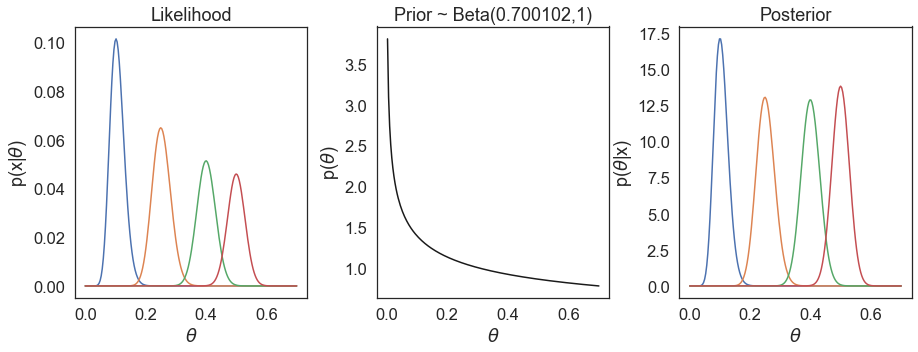
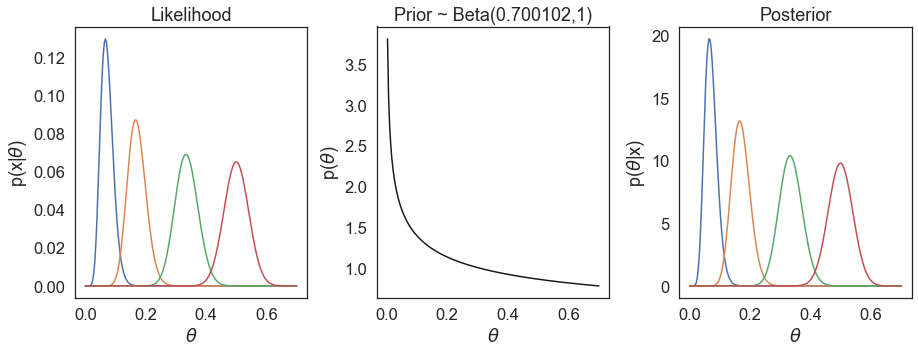
change to fixed total cases

diff --git a/_posts/2021-01-26-vaccine_efficacy_bayesian.md b/_posts/2021-01-26-vaccine_efficacy_bayesian.md
@@ -128,15 +128,15 @@ Now to calculate the posterior $$p(\theta<0.4117647 \vert x)$$, this is simply t
 
 The 95% credible interval can be obtained via calculating the posterior probabilities at the 2.5th and 97.5th percentile. The lower/upper bound $$\theta$$ can then be used to derive the upper/lower bound VE values (with surveillance time adjustment using $$r$$).
 
-Before moving to the next section, we will just explore the effects of different $$\theta$$ values on the likelihood and posterior, using the prior we've discussed. As an example, we will set 150 cases in the placebo group, and vary the number of observed cases in the vaccinated group.
+Before moving to the next section, we will just explore the effects of different $$\theta$$ values on the likelihood and posterior, using the prior we've discussed. As an example, we will set 150 total cases, and vary the number of observed cases in the vaccinated group.
 
 ```python
 import numpy as np
 import scipy.stats as st
 import matplotlib.pyplot as plt
 
-c_vs = [17, 50, 100, 150] # no. cases in vaccinated group
-c_ps = [150, 150, 150, 150] # no. cases in placebo group
+c_vs = np.array([10, 25, 50, 75]) # no. cases in vaccinated group
+c_ps = 150 - c_vs # no. cases in placebo group
 a = 0.700102 # param a in prior
 b = 1 # param b in prior
 
